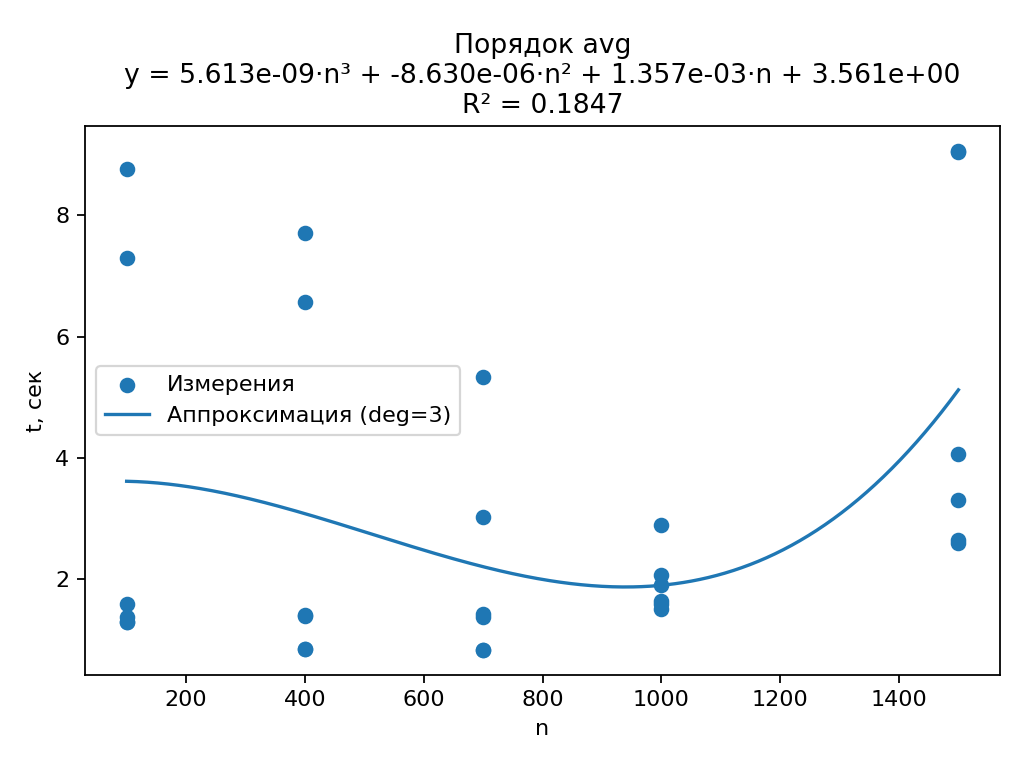
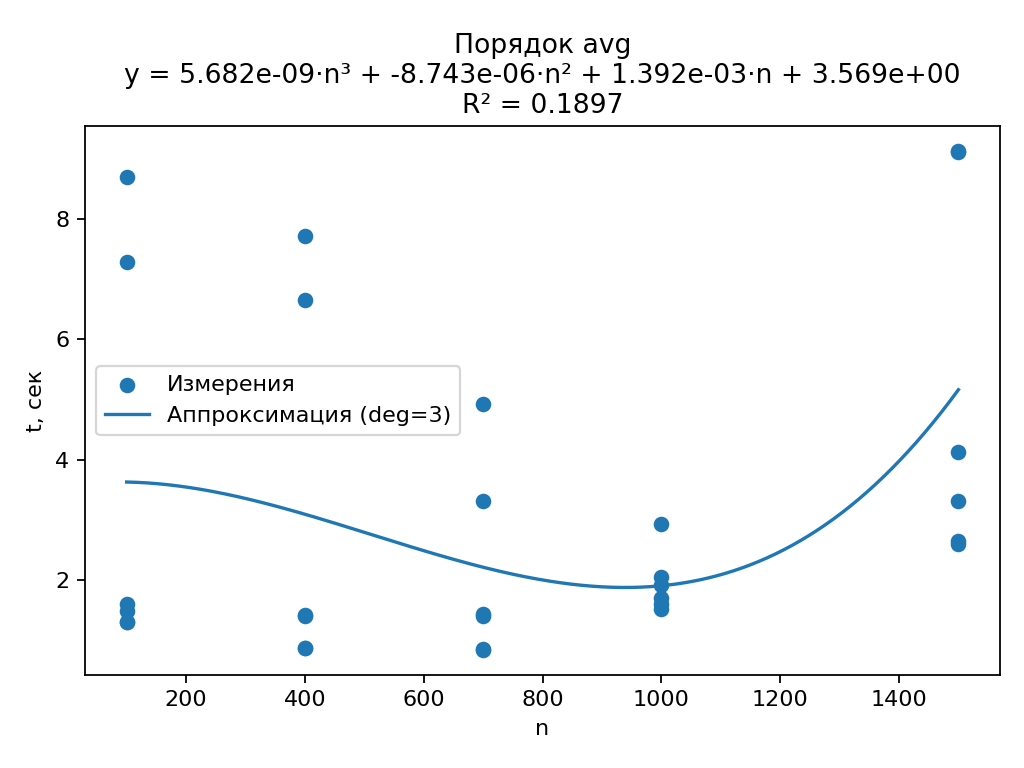
add setup_project.sh && edit launch.txt

diff --git a/plots/trend_equations.md b/plots/trend_equations.md
@@ -2,19 +2,19 @@
 
 **avg_time_sec**:
 
-- y = 4.952251e-09·n³ + -4.710682e-06·n² + 1.514251e-03·n + -1.119445e-01
-- R² = 0.502739
+- y = 5.167234e-09·n³ + -5.109847e-06·n² + 1.698893e-03·n + -1.286224e-01
+- R² = 0.504537
 - График: plots/trend_avg_time_sec.png
 
 **gflops**:
 
-- y = 6.273140e-09·n³ + -1.254850e-05·n² + 1.199943e-03·n + 7.234151e+00
-- R² = 0.195432
+- y = 6.197046e-09·n³ + -1.237597e-05·n² + 1.084811e-03·n + 7.266644e+00
+- R² = 0.199191
 - График: plots/trend_gflops.png
 
 **avg**:
 
-- y = 5.612696e-09·n³ + -8.629593e-06·n² + 1.357097e-03·n + 3.561103e+00
-- R² = 0.184660
+- y = 5.682140e-09·n³ + -8.742908e-06·n² + 1.391852e-03·n + 3.569011e+00
+- R² = 0.189665
 - График: plots/trend_avg.png
 
